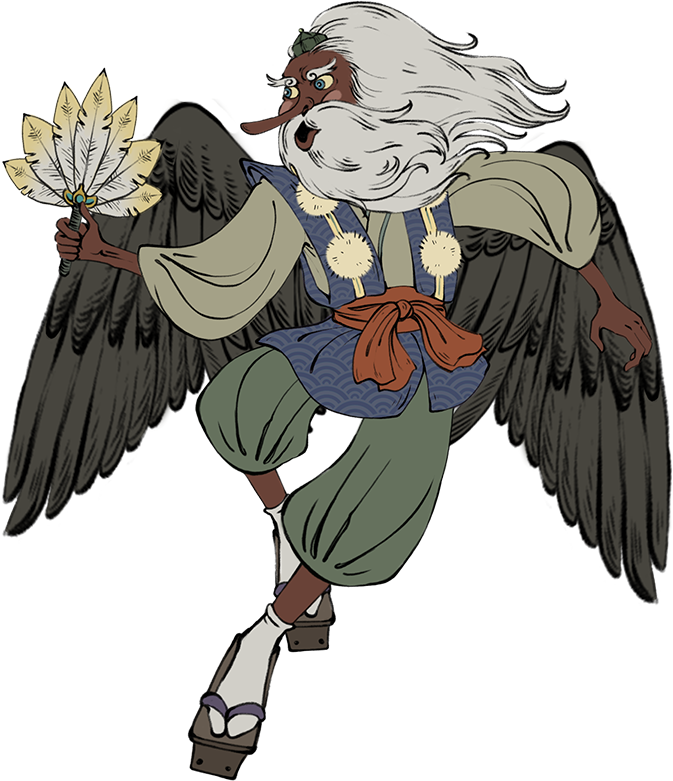
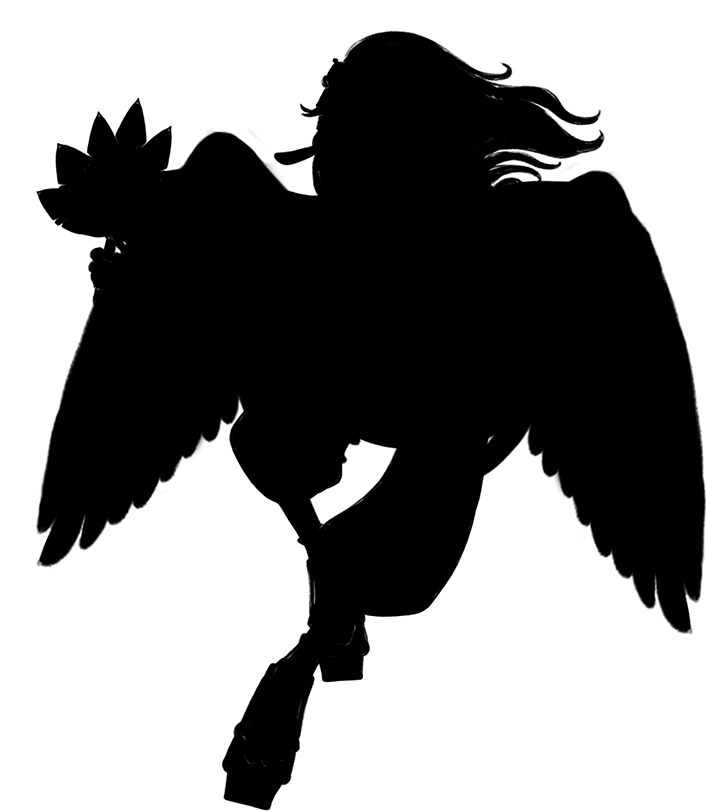
Update on unfound pic

diff --git a/Assets/Scripts/YokaiControl.cs b/Assets/Scripts/YokaiControl.cs
@@ -56,7 +56,7 @@ public class YokaiControl : MonoBehaviour
 
     void Start() {
         // yokai sequence list
-        yokaiNameSequence = new List<string>{ "YogenNoTori", "Daidarabotchi", "Onibi", "Raijuu", "Tengu" };;
+        yokaiNameSequence = new List<string>{ "YogenNoTori", "Daidarabotchi", "Onibi", "Raijuu", "Kitsune", "Tengu"};;
 
         // yokaiName, yokaiDescription, picture, habitatText, loreboxText;
         yokaiList = new List<Yokai>();
